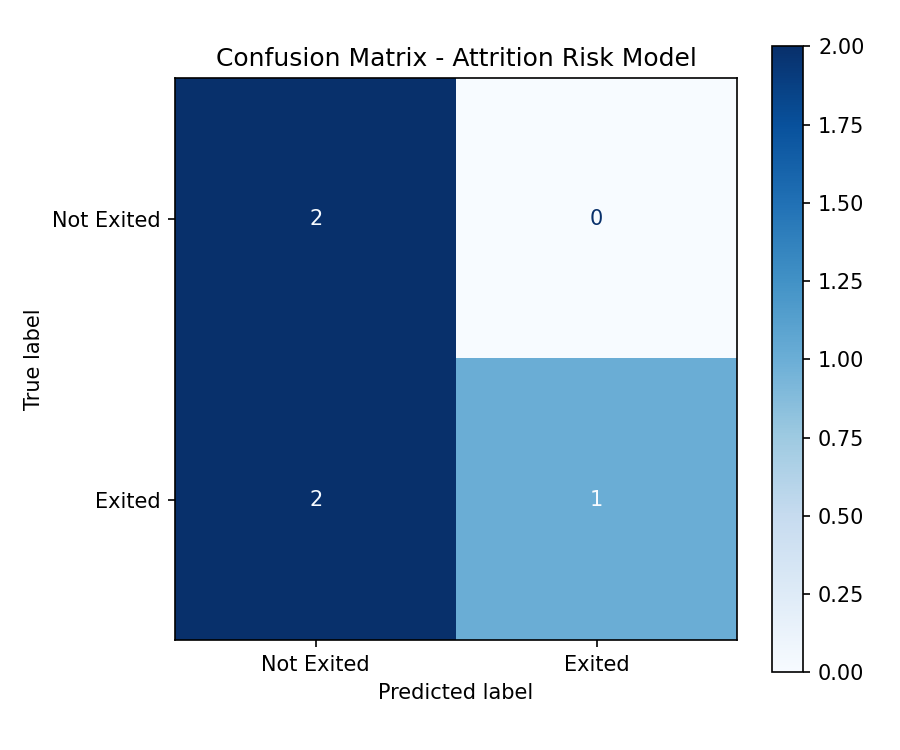
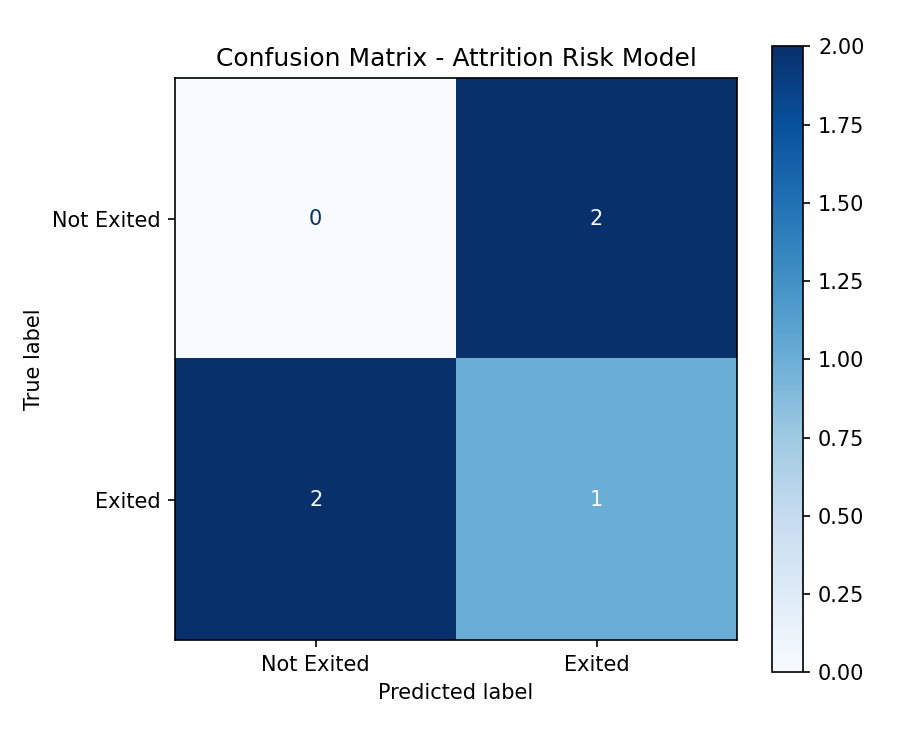
Final review before project submission.

Changed region(s): [[0.1867, 0.092, 0.84, 0.4907]]

diff --git a/ingestion.py b/ingestion.py
@@ -34,13 +34,11 @@ def merge_multiple_dataframe():
     csv_files = sorted(glob.glob(os.path.join(input_folder_path, '*.csv')))
 
     if not csv_files:
-        print(f"No CSV files found in {input_folder_path}")
-        os.makedirs(output_folder_path, exist_ok=True)
-        # Still refresh the ingestion record so downstream steps see an
-        # empty (but well-formed) state instead of a stale one.
-        with open(os.path.join(output_folder_path, 'ingestedfiles.txt'), 'w') as f:
-            pass
-        return
+        # Fail loudly: silently writing an empty ingestedfiles.txt would leave
+        # the ingestion record inconsistent with the (stale) finaldata.csv.
+        raise FileNotFoundError(
+            f"No CSV files found in input folder: {input_folder_path}"
+        )
 
     frames = [pd.read_csv(path) for path in csv_files]
     combined = pd.concat(frames, ignore_index=True)

diff --git a/fullprocess.py b/fullprocess.py
@@ -119,6 +119,16 @@ print('Generating second-run reports against the currently deployed model...')
 
 reporting.score_model_reporting('confusionmatrix2.png')
 
-subprocess.run([sys.executable, 'apicalls.py', '--second-run'], check=True)
+try:
+    subprocess.run([sys.executable, 'apicalls.py', '--second-run'], check=True)
+except subprocess.CalledProcessError:
+    # Most likely cause: app.py is not listening on port 8000 (e.g. a cron
+    # run). Fail with an actionable message instead of a raw traceback; the
+    # confusion matrix above has already been written.
+    raise SystemExit(
+        'ERROR: apicalls.py failed, so apireturns2.txt was NOT generated. '
+        'Start the API first (python app.py) so it listens on port 8000, '
+        'then re-run fullprocess.py. confusionmatrix2.png is already saved.'
+    )
 
 print('Full process complete.')

diff --git a/deployment.py b/deployment.py
@@ -31,9 +31,15 @@ def store_model_into_pickle():
         (os.path.join(dataset_csv_path, 'ingestedfiles.txt'), 'ingestedfiles.txt'),
     ]
 
+    # Validate everything BEFORE copying so a missing artefact can never leave
+    # production with a partially updated set (e.g. new model + stale score).
+    missing = [source for source, _ in artefacts if not os.path.exists(source)]
+    if missing:
+        raise FileNotFoundError(
+            "Deployment aborted, missing artefact(s): " + ', '.join(missing)
+        )
+
     for source, name in artefacts:
-        if not os.path.exists(source):
-            raise FileNotFoundError(f"Missing deployment artefact: {source}")
         shutil.copy2(source, os.path.join(prod_deployment_path, name))
 
     print(f"Deployed model, score and ingestion record to {prod_deployment_path}")

diff --git a/apicalls.py b/apicalls.py
@@ -42,8 +42,8 @@ def call_all_endpoints(output_suffix='', timeout=300):
 
     responses = {
         'scoring': scoring_response.json(),
-        'prediction': prediction_response.json(),
-        'summarystats': summary_response.json(),
+        'predictions': prediction_response.json(),
+        'summary_statistics': summary_response.json(),
         'diagnostics': diagnostics_response.json(),
     }
 
